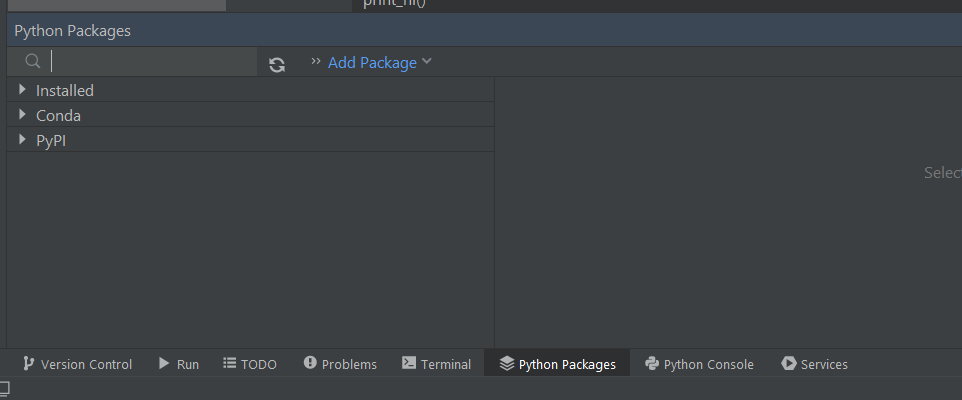
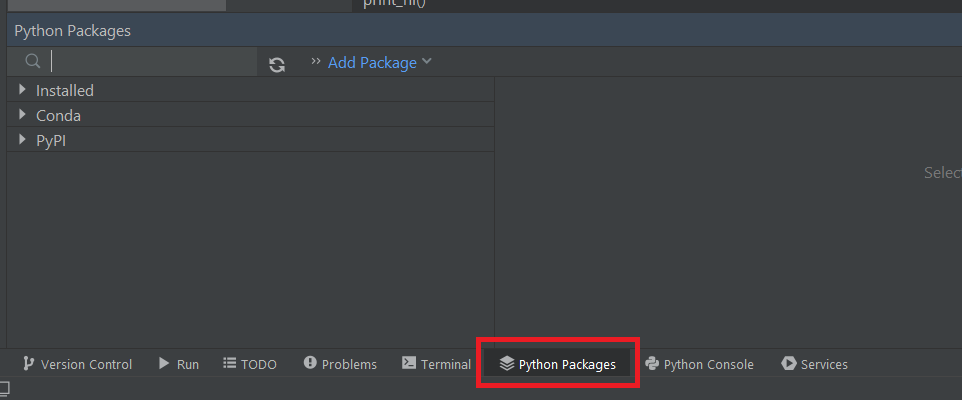
Add new project detail

Changed region(s): [[0.4678, 0.84, 0.6861, 0.99]]

diff --git a/README.md b/README.md
@@ -89,6 +89,88 @@ The result is as follows:
 
 ![figure-6](images/05_pycharm.png "hello world example")
 
+### Step 2: Set up the Project setting for Refinitiv Data Library for Python
+
+The next step is installing the Refinitiv Data Library for Python dependencies. Firstly, open the Python Package tool window available at the bottom of the screen as follows:
+
+![figure-7](images/06_pycharm_package.png "PyCharm Package tool window")
+
+You can start typing the package name in the Search field. PyCharm then shows matching packages on each repository. Since we are using a Conda environment, so PyCharm shows search results on both Conda and PyPI repositories like the following search result for the *python-dotenv* package.
+
+![figure-8](images/06_pycharm_package_conda.png "PyCharm search package")
+
+To install Refinitiv Data Library for Python, type **refinitiv** in the Search field. The RD Lib - Python is available on PyPI only, so I choose the **refinitiv-data** package under PyPI and click the "Install with pip" button to install the package.
+
+![figure-9](images/06_pycharm_package_rd.png "PyCharm install refinitiv-data 1")
+
+Once the package installation is successful, you see the notification, and the **refinitiv-data** package is listed in the installed packages.
+
+![figure-10](images/06_pycharm_package_rd_3.png "PyCharm install refinitiv-data 2")
+
+![figure-11](images/06_pycharm_package_rd_4.png "PyCharm install refinitiv-data 3")
+
+The next step is testing the RD Lib - Python. You can add the **refinitiv-data.config.json** file to the IDE with the following configurations:
+
+``` JSON
+{
+    "logs": {
+        "level": "debug",
+        "transports": {
+            "console": {
+                "enabled": false
+            },
+            "file": {
+                "enabled": false,
+                "name": "refinitiv-data-lib.log"
+            }
+        }
+    },
+    "sessions": {
+        "default": "platform.rdp",
+        "platform": {
+            "rdp": {
+                "app-key": "App Key",
+                "username": "RDP User ID",
+                "password": "RDP Password"
+            },
+           
+        }
+       
+    }
+}
+```
+
+Please refer to the [Quickstart page](https://developers.refinitiv.com/en/api-catalog/refinitiv-data-platform/refinitiv-data-library-for-python/quick-start) if you are using other Access Points such as Desktop session, etc.
+
+Next, change the code of ```main.py``` to call RD - Lib Python instead as follows:
+
+``` Python
+
+import json
+import refinitiv.data as rd
+
+if __name__ == '__main__':
+    rd.open_session(name='platform.rdp')
+    data = rd.get_data(['EUR=', 'THB='], fields=['BID', 'ASK'])
+    print(data)
+
+    rd.close_session()
+```
+
+Your PyCharm IDE should look like the following screenshot:
+
+![figure-12](images/07_pycharm_code.png "PyCharm with RD Code")
+
+If your RDP credential works fine, the running result shows as follows:
+
+![figure-13](images/07_pycharm_code_2.png "PyCharm with RD Run Result")
+
+Now your PyCharm is ready to work with Refinitiv Data Library for Python.
+
+For more detail about packages management with PyCharm, please check the [official document](https://www.jetbrains.com/help/pycharm/installing-uninstalling-and-upgrading-packages.html).
+
+### Step 3: Plotting Graph
+
 TBD
 
 ## <a id="ref"></a>References
